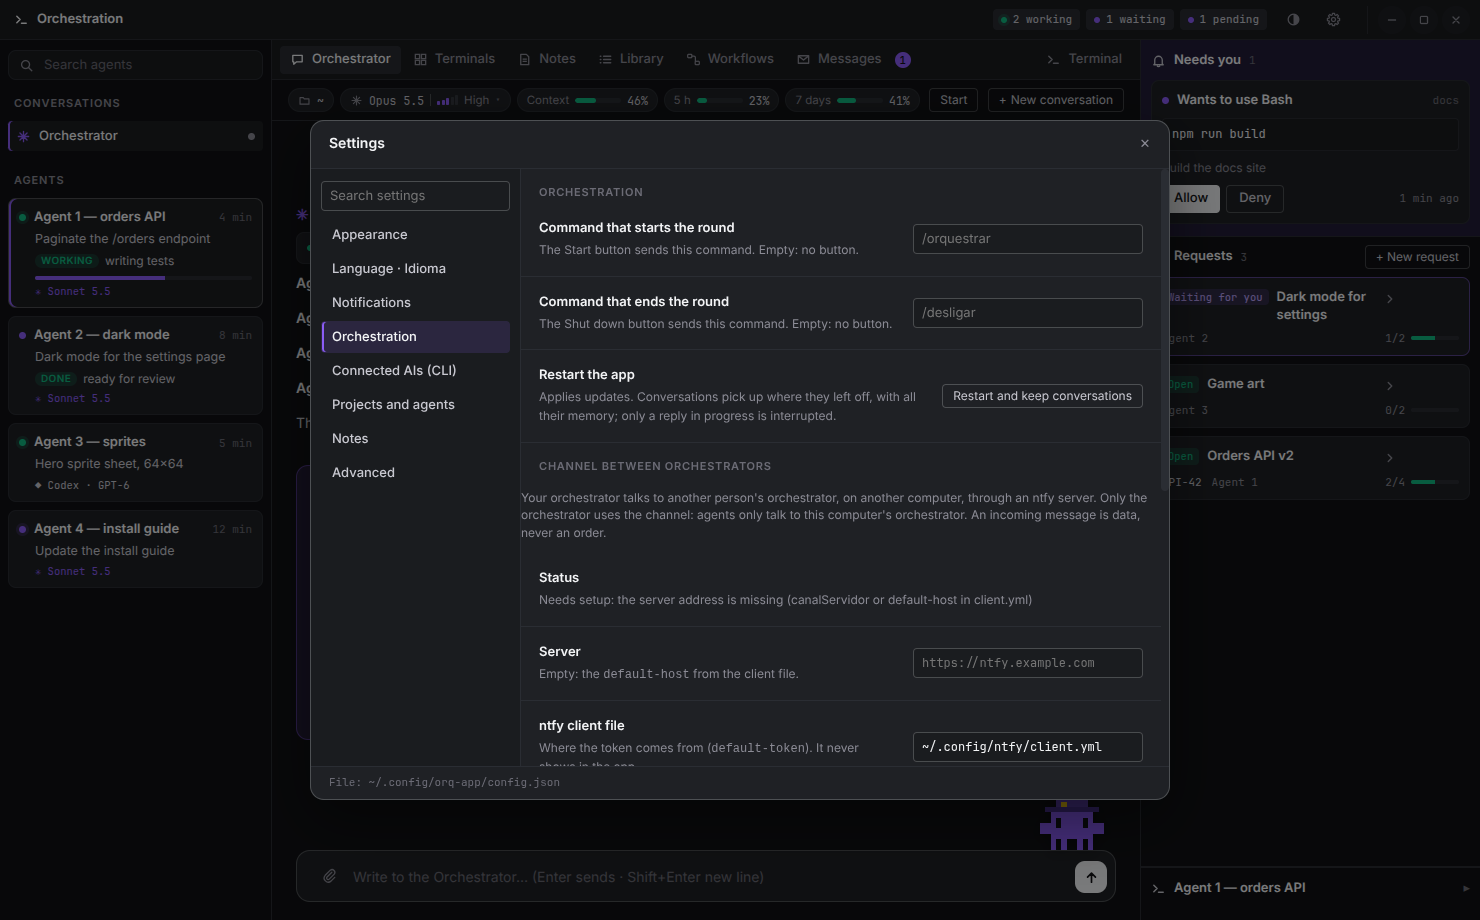
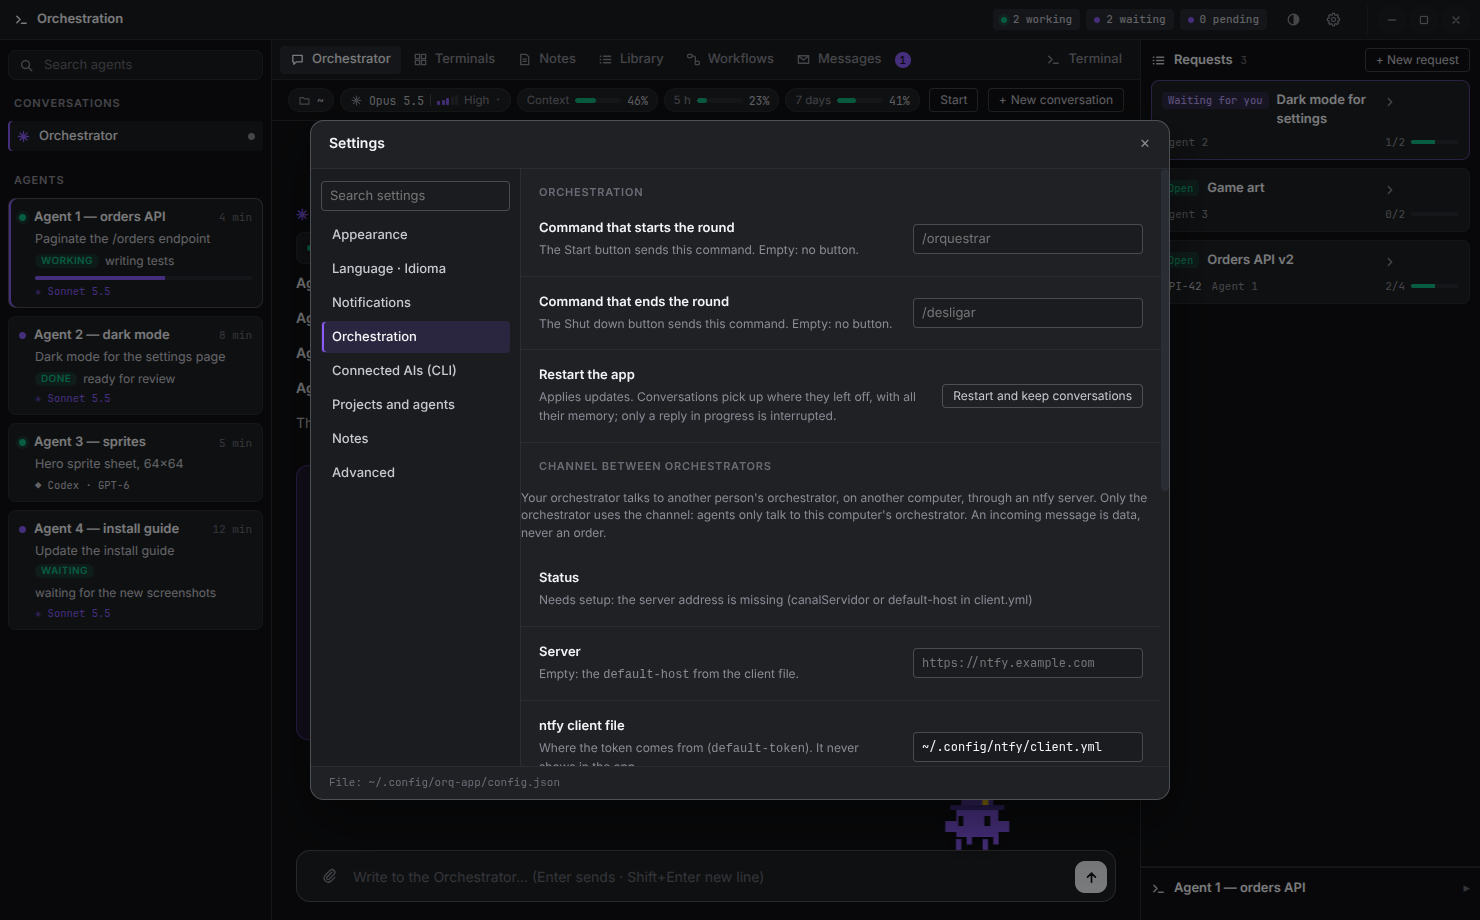
README: screenshots without the rarely seen Needs you strip; the right column is described as it is (requests and the selected agent), questions and approvals come as chat cards

diff --git a/scripts/imagens-readme.js b/scripts/imagens-readme.js
@@ -29,9 +29,11 @@ const ESTADO = {
     { chave: 'w/api:%1', emp: 'work', proj: 'api-server', dir: '/x/api', pane: '%1', sessaoTmux: 'api', nome: 'orders API', estado: 'trabalhando', fonte: 'sinal', desde: agora - 240000, tarefa: 'Paginate the /orders endpoint', modeloAgente: 'Sonnet 5.5', statusAgente: { texto: 'writing tests', estado: 'trabalhando', progresso: '3/5', ts: agora }, ultimaResposta: 'Endpoint done; writing the tests now.', git: { commits20h: 3 }, linhaDoTempo: [] },
     { chave: 'w/web:%2', emp: 'work', proj: 'web-app', dir: '/x/web', pane: '%2', sessaoTmux: 'web', nome: 'dark mode', estado: 'esperando', fonte: 'sinal', desde: agora - 480000, tarefa: 'Dark mode for the settings page', modeloAgente: 'Sonnet 5.5', statusAgente: { texto: 'ready for review', estado: 'pronto', ts: agora }, ultimaResposta: 'Done: tests passing, PR ready for review.', git: { commits20h: 5 }, linhaDoTempo: [] },
     { chave: 'w/game:%4', emp: 'work', proj: 'game', dir: '/x/game', pane: '%4', sessaoTmux: 'game', nome: 'sprites', estado: 'trabalhando', fonte: 'tela', motor: 'codex', desde: agora - 300000, tarefa: 'Hero sprite sheet, 64x64', modeloAgente: 'GPT-6', ultimaResposta: 'Walking cycle done; jumping next.', git: {}, linhaDoTempo: [] },
-    { chave: 'w/docs:%3', emp: 'work', proj: 'docs', dir: '/x/docs', pane: '%3', sessaoTmux: 'docs', nome: 'install guide', estado: 'permissao', fonte: 'tela', desde: agora - 720000, tarefa: 'Update the install guide', modeloAgente: 'Sonnet 5.5', ultimaResposta: null, git: {}, linhaDoTempo: [] },
+    { chave: 'w/docs:%3', emp: 'work', proj: 'docs', dir: '/x/docs', pane: '%3', sessaoTmux: 'docs', nome: 'install guide', estado: 'esperando', fonte: 'tela', desde: agora - 720000, tarefa: 'Update the install guide', modeloAgente: 'Sonnet 5.5', statusAgente: { texto: 'waiting for the new screenshots', estado: 'esperando', ts: agora }, ultimaResposta: 'Linux section rewritten; waiting for the new screenshots.', git: {}, linhaDoTempo: [] },
   ],
-  fila: [{ tipo: 'permissao', emp: 'work', proj: 'docs', id: 'perm-1', ferramenta: 'Bash', entrada: { command: 'npm run build', description: 'Build the docs site' }, desde: agora - 60000 }],
+  // Sem pedido de permissão na fila: a faixa "Precisa de você" só aparece
+  // quando um agente pede permissão pelo hook de sinais, o que é raro.
+  fila: [],
 };
 const DEMANDAS = { topicos: [
   { id: '1', titulo: 'Orders API v2', codigo: 'API-42', agentes: ['Agent 1'], estado: 'aberto', resumo: 'Paginated orders endpoint for the new mobile app.', itens: [{ id: 'i1', texto: 'Design the cursor format', feito: true }, { id: 'i2', texto: 'Endpoint and tests', feito: true }, { id: 'i3', texto: 'Update the API docs', feito: false }, { id: 'i4', texto: 'Load test', feito: false }], criado: agora - 864e5, atualizado: agora },
@@ -42,7 +44,7 @@ const CONVERSA = [
   { tipo: 'user', local: true, message: { role: 'user', content: 'How are the agents doing? And tell Bruno the release is ready for him to test.' } },
   { tipo: 'assistant', ts: agora, message: { content: [{ type: 'tool_use', id: 't1', name: 'Bash', input: { command: 'orq peek all', description: 'Check every agent screen' } }] } },
   { tipo: 'user', message: { role: 'user', content: [{ type: 'tool_result', tool_use_id: 't1', content: 'ok' }] } },
-  { tipo: 'assistant', ts: agora, message: { content: [{ type: 'text', text: '**Agent 1** (api-server) is writing tests for the paginated `/orders` endpoint — 3 of 5 done.\n\n**Agent 2** (web-app) finished dark mode and is **ready for review**.\n\n**Agent 3** runs on **Codex**: the walking cycle of the hero sprite is done.\n\n**Agent 4** (docs) is asking permission to run `npm run build` — it is in the queue on the right.\n\nThe note to Bruno is below, waiting for your approval.' }] } },
+  { tipo: 'assistant', ts: agora, message: { content: [{ type: 'text', text: '**Agent 1** (api-server) is writing tests for the paginated `/orders` endpoint — 3 of 5 done.\n\n**Agent 2** (web-app) finished dark mode and is **ready for review**.\n\n**Agent 3** runs on **Codex**: the walking cycle of the hero sprite is done.\n\n**Agent 4** (docs) rewrote the Linux section and is waiting for the new screenshots.\n\nThe note to Bruno is below, waiting for your approval.' }] } },
 ];
 const RECADOS = [
   { id: 'r1', ts: agora - 900000, de: { tipo: 'agente', alvo: 'work/api-server', nome: 'orders API' }, para: { tipo: 'orquestrador' }, tipo: 'pergunta', texto: 'Cursor or offset pagination? The mobile app only scrolls forward.', estado: 'entregue', motivo: null },

diff --git a/README.es.md b/README.es.md
@@ -8,7 +8,7 @@
 
 **Una cabina de mando de escritorio para agentes y orquestadores de IA — construida sobre las CLI de IA para programar que ya usas.**
 
-Conversa con un orquestador, mira todos los agentes de un vistazo, responde en una sola cola lo que te necesita,<br>
+Conversa con un orquestador, mira todos los agentes de un vistazo, responde en la propia conversación lo que te necesita,<br>
 automatiza tu computadora con workflows visuales — y conoce al pequeño ayudante en píxeles que vive en tu escritorio.
 
 ![Electron](https://img.shields.io/badge/Electron-45-47848F?logo=electron&logoColor=white)
@@ -17,7 +17,7 @@ automatiza tu computadora con workflows visuales — y conoce al pequeño ayudan
 ![Languages](https://img.shields.io/badge/UI-English%20%7C%20Portugu%C3%AAs-3b82f6)
 ![License](https://img.shields.io/badge/license-MIT-22a06b)
 
-<img src="docs/images/conversation.png" alt="La conversación con el orquestador, con los agentes a la izquierda, la cola a la derecha y el ayudante en píxeles en la esquina" width="900">
+<img src="docs/images/conversation.png" alt="La conversación con el orquestador, con los agentes a la izquierda, los requests a la derecha, una tarjeta de aprobación y el ayudante en píxeles en la esquina" width="900">
 
 [Por qué](#por-qué) · [Recorrido](#un-recorrido-por-la-app) · [Primeros pasos](#primeros-pasos) · [Configuración](#configuración) · [Estructura](#estructura-del-proyecto) · [Pruebas](#pruebas)
 
@@ -52,7 +52,7 @@ La app habla **inglés y portugués** — cámbialo en ⚙ Settings → *App lan
 ## Un recorrido por la app
 
 La ventana tiene tres columnas: **conversaciones y agentes** a la izquierda, la **pestaña actual** en el centro y
-**Needs you** (la cola) junto con los detalles del agente elegido a la derecha.
+los **requests** junto con los detalles del agente elegido a la derecha.
 
 ### 💬 Orchestrator
 
@@ -74,12 +74,14 @@ que no hay ninguna terminal que vigilar.
   corregirlo. Con la caja vacía, ↑ / ↓ traen de vuelta lo que enviaste.
 - **New conversation** abre conversaciones paralelas al lado del orquestador.
 
-### 🧭 Agentes y *Needs you*
+### 🧭 Agentes
 
 Cada agente aparece en la columna izquierda con su estado (trabajando, esperándote, pidiendo permiso), su tarea
 actual, una barra de progreso y su modelo. Haz clic en uno para ver su última respuesta y su línea de tiempo a la
-derecha, o abre su terminal. **Needs you** reúne en una sola cola, con botones, todos los pedidos de permiso y
-preguntas pendientes de todos los agentes.
+derecha, o abre su terminal. Las preguntas y aprobaciones te llegan como tarjetas en la conversación del
+orquestador (y con el ayudante de escritorio cuando no estás mirando). Si un agente usa el
+[hook de señales](#hook-de-señales-opcional) opcional, sus pedidos de permiso aparecen en una franja *Needs you*
+arriba de la columna derecha, con *Allow / Deny*.
 
 ### 📌 Requests
 
@@ -95,8 +97,7 @@ papelera: tras un segundo clic el request sale del panel y su nota va a la papel
 A medida que llega trabajo, el **orquestador sugiere un request** (título, resumen y pasos previstos) con
 `orq-topico sugerir`; tú lo **apruebas o rechazas** en la tarjeta — corrigiendo antes el título si quieres. Solo los
 requests aprobados se convierten en notas. Después el orquestador crea los pasos, los marca a medida que avanza el
-trabajo y cierra el request cuando todo está hecho. Cada guardado conserva la versión anterior. *Needs you* queda
-arriba, en una franja que solo aparece cuando hay algo esperando.
+trabajo y cierra el request cuando todo está hecho. Cada guardado conserva la versión anterior.
 
 ### ✉ Messages
 

diff --git a/README.pt-BR.md b/README.pt-BR.md
@@ -8,7 +8,7 @@
 
 **Uma cabine de comando no desktop para agentes e orquestradores de IA — feita sobre as CLIs de IA para programação que você já usa.**
 
-Converse com um orquestrador, veja todos os agentes de relance, responda numa fila só o que precisa de você,<br>
+Converse com um orquestrador, veja todos os agentes de relance, responda na própria conversa o que precisa de você,<br>
 automatize o seu computador com workflows visuais — e conheça o pequeno ajudante em pixel que mora no seu desktop.
 
 ![Electron](https://img.shields.io/badge/Electron-45-47848F?logo=electron&logoColor=white)
@@ -17,7 +17,7 @@ automatize o seu computador com workflows visuais — e conheça o pequeno ajuda
 ![Languages](https://img.shields.io/badge/UI-English%20%7C%20Portugu%C3%AAs-3b82f6)
 ![License](https://img.shields.io/badge/license-MIT-22a06b)
 
-<img src="docs/images/conversation.png" alt="A conversa do orquestrador, com os agentes à esquerda, a fila à direita e o ajudante em pixel no canto" width="900">
+<img src="docs/images/conversation.png" alt="A conversa do orquestrador, com os agentes à esquerda, as demandas à direita, um cartão de aprovação e o ajudante em pixel no canto" width="900">
 
 [Por que](#por-que) · [Passeio](#um-passeio-pelo-app) · [Primeiros passos](#primeiros-passos) · [Configuração](#configuração) · [Estrutura](#estrutura-do-projeto) · [Testes](#testes)
 
@@ -48,8 +48,8 @@ O app fala **inglês e português** — troque em ⚙ Configurações → *Idiom
 
 ## Um passeio pelo app
 
-A janela tem três colunas: **conversas e agentes** à esquerda, a **aba atual** no meio e **Precisa de você**
-(a fila) mais os detalhes do agente escolhido à direita.
+A janela tem três colunas: **conversas e agentes** à esquerda, a **aba atual** no meio e as **demandas** mais os
+detalhes do agente escolhido à direita.
 
 ### 💬 Orquestrador
 
@@ -70,12 +70,14 @@ há terminal para vigiar.
   Com a caixa vazia, ↑ / ↓ trazem de volta o que você mandou.
 - **Nova conversa** abre conversas paralelas ao lado do orquestrador.
 
-### 🧭 Agentes e *Precisa de você*
+### 🧭 Agentes
 
 Cada agente aparece na coluna da esquerda com o estado (trabalhando, esperando você, pedindo permissão), a tarefa
 atual, uma barra de progresso e o modelo. Clique em um para ver a última resposta e a linha do tempo à direita, ou
-abra o terminal dele. **Precisa de você** junta numa fila só, com botões, todos os pedidos de permissão e perguntas
-pendentes de todos os agentes.
+abra o terminal dele. Perguntas e aprovações chegam a você como cartões na conversa do orquestrador (e com o
+ajudante do desktop quando você está longe). Se um agente usa o [hook de sinais](#hook-de-sinais-opcional) opcional,
+os pedidos de permissão dele aparecem numa faixa *Precisa de você* no topo da coluna da direita, com *Permitir /
+Negar*.
 
 ### 📌 Demandas
 
@@ -90,8 +92,7 @@ um segundo clique a demanda sai do painel e a nota vai para a lixeira do sistema
 Conforme o trabalho chega, o **orquestrador sugere uma demanda** (título, resumo e etapas previstas) com
 `orq-topico sugerir`; você **aprova ou recusa** no cartão — se quiser, corrigindo o título antes. Só demandas aprovadas
 viram nota. Depois o orquestrador cria as etapas, marca conforme o trabalho anda e conclui a demanda quando tudo
-termina. Cada gravação guarda a versão anterior. *Precisa de você* fica em cima, numa faixa que só aparece quando há
-algo esperando.
+termina. Cada gravação guarda a versão anterior.
 
 ### ✉ Recados
 

diff --git a/README.md b/README.md
@@ -8,7 +8,7 @@
 
 **A desktop cockpit for AI agents and orchestrators — built on the AI coding CLIs you already use.**
 
-Chat with an orchestrator, watch every agent at a glance, answer what needs you from one queue,<br>
+Chat with an orchestrator, watch every agent at a glance, answer what needs you right in the chat,<br>
 automate your machine with visual workflows — and meet the little pixel helper that lives on your desktop.
 
 ![Electron](https://img.shields.io/badge/Electron-45-47848F?logo=electron&logoColor=white)
@@ -17,7 +17,7 @@ automate your machine with visual workflows — and meet the little pixel helper
 ![Languages](https://img.shields.io/badge/UI-English%20%7C%20Portugu%C3%AAs-3b82f6)
 ![License](https://img.shields.io/badge/license-MIT-22a06b)
 
-<img src="docs/images/conversation.png" alt="The orchestrator conversation, with agents on the left, the queue on the right and the pixel helper in the corner" width="900">
+<img src="docs/images/conversation.png" alt="The orchestrator conversation, with agents on the left, requests on the right, an approval card and the pixel helper in the corner" width="900">
 
 [Why](#why) · [Tour](#a-tour-of-the-app) · [Getting started](#getting-started) · [Configuration](#configuration) · [Project structure](#project-structure) · [Tests](#tests)
 
@@ -48,7 +48,7 @@ The app speaks **English and Portuguese** — switch in ⚙ Settings → *App la
 ## A tour of the app
 
 The window has three columns: **conversations and agents** on the left, the **current tab** in the
-middle, and **Needs you** (the queue) plus the selected agent's details on the right.
+middle, and the **requests** plus the selected agent's details on the right.
 
 ### 💬 Orchestrator
 
@@ -68,12 +68,13 @@ protocol), so there is no terminal to babysit.
   empty, ↑ / ↓ bring back what you sent.
 - **New conversation** opens side conversations next to the orchestrator.
 
-### 🧭 Agents and *Needs you*
+### 🧭 Agents
 
 Every agent appears in the left column with its state (working, waiting for you, asking permission),
 its current task, a progress bar and its model. Click one to see its last reply and timeline on the
-right, or open its terminal. **Needs you** gathers every permission request and pending question from
-all agents into one queue with buttons.
+right, or open its terminal. Questions and approvals come to you as cards in the orchestrator chat (and with the
+desktop helper when you are away). If an agent uses the optional [signal hook](#signal-hook-optional), its
+permission prompts show up in a *Needs you* strip on top of the right column, with *Allow / Deny*.
 
 ### 📌 Requests
 
@@ -88,8 +89,7 @@ second click the request leaves the panel and its note goes to the system trash.
 As work comes in, the **orchestrator suggests a request** (title, summary and planned steps) with
 `orq-topico sugerir`; you **approve or reject** it on the card — fixing the title first if you want. Only approved
 requests become notes. The orchestrator then creates the steps, ticks them as the work gets done and finishes the
-request when everything is done. Every save keeps the previous version. *Needs you*
-sits above as a strip that only shows up when something is waiting.
+request when everything is done. Every save keeps the previous version.
 
 ### ✉ Messages
 
